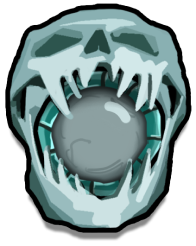
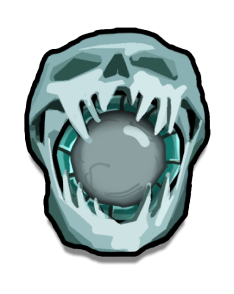
✨ Add turn counter glow for paladins

diff --git a/src/components/header/TurnCounter.tsx b/src/components/header/TurnCounter.tsx
@@ -1,11 +1,19 @@
 /** @jsx jsx */
 import { css, jsx } from '@emotion/core'
 import { Fragment } from 'react'
+import { useSelector } from 'react-redux'
 import skullImageUrl from '../../assets/images/header/skull.png'
-import { colors, shadows } from '../../config/theme'
+import skullEyesGlowImageUrl from '../../assets/images/header/skull-eyes-glow.png'
+import skullGlowImageUrl from '../../assets/images/header/skull-glow.png'
+import { breakpoints, colors, shadows, transitions } from '../../config/theme'
 import { useModalState } from '../ui/Modal'
 import { resetButton } from '../../styles/buttons'
 import { TurnsModal } from './TurnsModal'
+import { getPaladinsCounter } from '../../data/paladins/selectors'
+import { Image } from '../images/Image'
+import { PALADINS_ATTACK_THRESHOLD } from '../../config/constants'
+import { glow } from '../../styles/animations'
+import { contentCover } from '../../styles/base'
 
 const turnCounter = [
   resetButton,
@@ -13,21 +21,34 @@ const turnCounter = [
     display: 'flex',
     alignItems: 'center',
     justifyContent: 'center',
+    position: 'relative',
     paddingTop: '0.9rem',
     paddingLeft: '0.3rem',
     flex: '0 0 auto',
-    width: '22vw',
-    maxWidth: '6rem',
-    height: '28vw',
-    maxHeight: '8rem',
+    width: '6rem',
+    height: '8rem',
     color: colors.WHITE,
-    backgroundImage: `url(${skullImageUrl})`,
-    backgroundPosition: 'center',
-    backgroundSize: 'cover',
     fontSize: '1.8rem',
     textShadow: shadows.TEXT,
+
+    [breakpoints.SM]: {
+      width: '8rem',
+      height: '10rem',
+      margin: '-1rem',
+    },
   }),
 ]
+
+const eyesGlow = css({
+  position: 'absolute',
+  top: 0,
+  left: 0,
+  animation: `${glow} 3s ${transitions.SLOW_EASING} infinite`,
+})
+
+const currentTurnText = css({
+  position: 'relative',
+})
 
 export type TurnCounterProps = {
   currentTurn: number
@@ -35,10 +56,16 @@ export type TurnCounterProps = {
 
 export const TurnCounter = ({ currentTurn }: TurnCounterProps) => {
   const { isOpen, close, open } = useModalState(false)
+  const paladinsCounter = useSelector(getPaladinsCounter)
   return (
     <Fragment>
       <button type="button" css={turnCounter} onClick={open}>
-        {currentTurn}
+        {paladinsCounter === PALADINS_ATTACK_THRESHOLD && <Image src={skullGlowImageUrl} css={eyesGlow} size="100%" />}
+        <Image src={skullImageUrl} css={contentCover} size="100%" />
+        {paladinsCounter >= PALADINS_ATTACK_THRESHOLD - 1 && (
+          <Image src={skullEyesGlowImageUrl} css={eyesGlow} size="100%" />
+        )}
+        <span css={currentTurnText}>{currentTurn}</span>
       </button>
       <TurnsModal isOpen={isOpen} onClose={close} />
     </Fragment>

diff --git a/src/components/header/Header.tsx b/src/components/header/Header.tsx
@@ -36,7 +36,10 @@ const headerCountersWrapper = css({
   display: 'flex',
   flexWrap: 'wrap',
   alignItems: 'center',
-  marginLeft: '0.5rem',
+
+  [breakpoints.SM]: {
+    marginLeft: '0.5rem',
+  },
 })
 
 const headerResourceCounter = (backgroundColor: string) =>
@@ -83,7 +86,14 @@ const headerButtons = css({
   alignItems: 'center',
   alignSelf: 'stretch',
   justifyContent: 'space-between',
-  paddingTop: '0.4rem',
+  padding: '0.4rem 0',
+  flex: '0 0 auto',
+  width: '3.5rem',
+
+  [breakpoints.SM]: {
+    padding: '0.4rem 0 0',
+    width: '4rem',
+  },
 })
 
 const headerSpacer = css({
@@ -113,11 +123,11 @@ export const Header = () => {
     <div css={headerContainer}>
       <div css={headerButtons}>
         <button type="button" css={settingsButton} onClick={openSettings}>
-          <Image src={settingsImageUrl} size="3rem" />
+          <Image src={settingsImageUrl} size="80%" />
         </button>
         <SettingsModal isOpen={isSettingsModalOpen} onClose={closeSettings} />
         <button type="button" css={spellsButton} disabled={!hasSpells} onClick={openSpells}>
-          <Image src={spellImageUrl} size="4rem" />
+          <Image src={spellImageUrl} size="100%" />
         </button>
         <SpellsModal isOpen={isSpellsModalOpen} onClose={closeSpells} />
       </div>

diff --git a/src/styles/animations.ts b/src/styles/animations.ts
@@ -37,3 +37,21 @@ export const wobble = keyframes({
     transform: 'scale(1, 1)',
   },
 })
+
+export const glow = keyframes({
+  '0%': {
+    opacity: 0,
+  },
+
+  '40%': {
+    opacity: 1,
+  },
+
+  '60%': {
+    opacity: 1,
+  },
+
+  '100%': {
+    opacity: 0,
+  },
+})

diff --git a/src/config/theme.ts b/src/config/theme.ts
@@ -43,7 +43,7 @@ export const transitions = {
 }
 
 export const breakpoints = {
-  SM: '@media screen and (min-width: 380px)',
+  SM: '@media screen and (min-width: 400px)',
 }
 
 export const layers = {

diff --git a/src/containers/App.tsx b/src/containers/App.tsx
@@ -27,7 +27,7 @@ const gameContainer = css({
   width: '100vw',
   maxWidth: '27.5rem',
   height: '100vh',
-  maxHeight: '50rem',
+  maxHeight: '55rem',
   overflow: 'hidden',
 })
 
